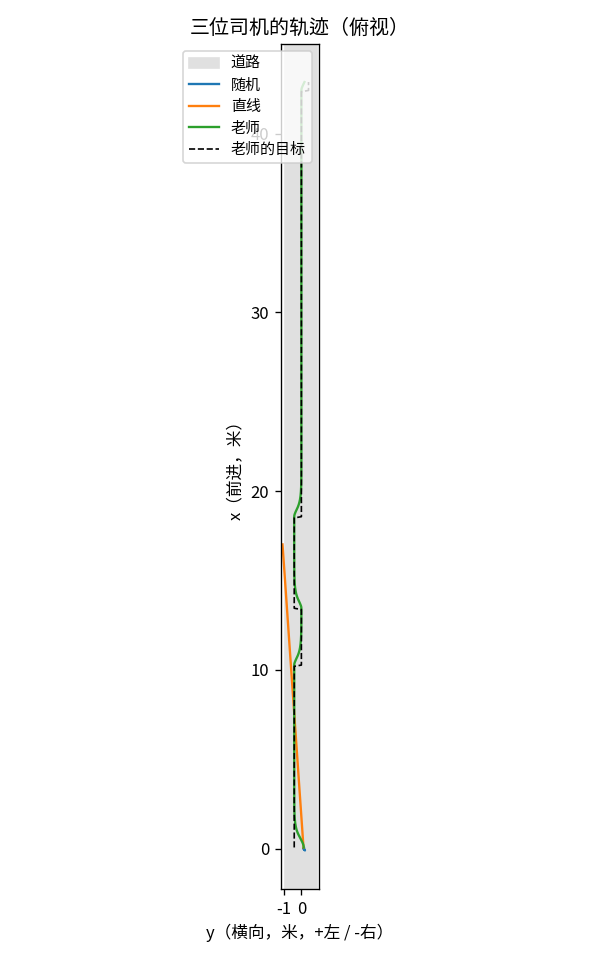
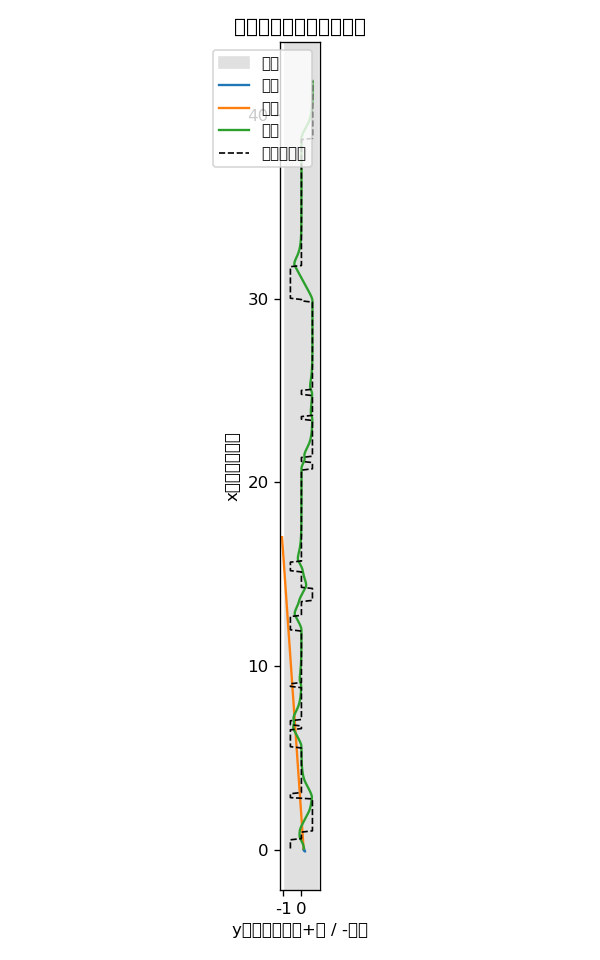
Link the statistics companion repository

Changed region(s): [[0.3, 0.0, 0.66, 1.0]]

diff --git a/README.md b/README.md
@@ -9,6 +9,7 @@ A from-scratch simulation and imitation-learning pipeline for the
 **behaviour-cloning failure modes** and **sim-to-real transfer**.
 
 [![Python](https://img.shields.io/badge/python-3.9%2B-blue.svg)](#)
+[![sister repo](https://img.shields.io/badge/sister%20repo-openbot--sim--statistics-4a6fa5.svg)](https://github.com/LuC-lis/openbot-sim-statistics)
 [![TensorFlow](https://img.shields.io/badge/TensorFlow-2.x-FF6F00.svg)](#)
 [![License: MIT](https://img.shields.io/badge/License-MIT-green.svg)](LICENSE)
 [![OpenBot compatible](https://img.shields.io/badge/interface-OpenBot--compatible-success.svg)](#the-interface-contract)
@@ -51,6 +52,12 @@ with the **observation/action interface matched exactly to the real OpenBot
 stack**, so anything trained here is drop-in compatible with the Android app.
 
 It is an **independent, self-directed project**, still in progress.
+
+> The evaluation in this repository is a single run per configuration. The
+> statistical companion, [openbot-sim-statistics](https://github.com/LuC-lis/openbot-sim-statistics),
+> runs the same simulator as a designed experiment: Latin-hypercube conditions,
+> paired seeds across policies, Wilson/bootstrap intervals, permutation tests and
+> a logistic regression on the failure indicator.
 
 ---
 
